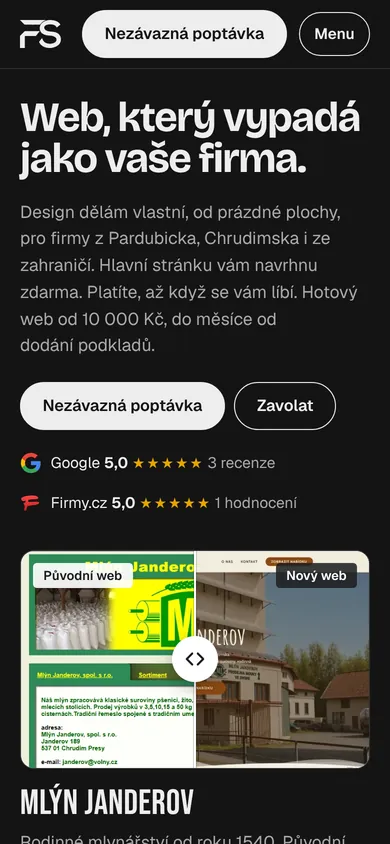
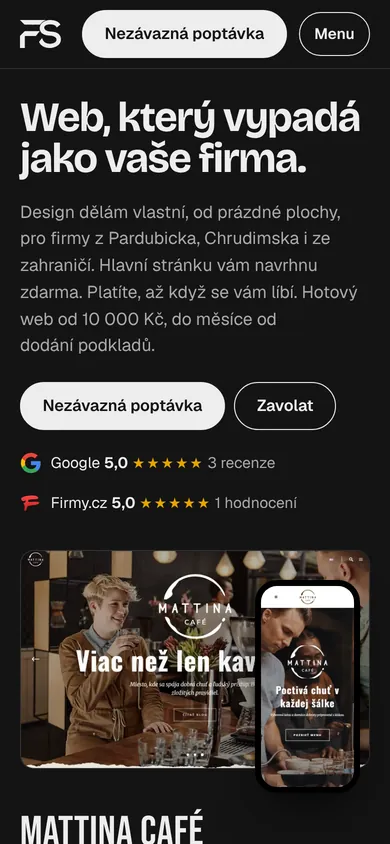
Návrh D: pod nadpisem Mattina, porovnání před a po u Janderova
Porovnání starého a nového webu už není první věc na stránce,
přesunulo se do kapitoly Mlýna Janderov. Pod nadpisem je Mattina
Café přes celou šířku. Rozcestník a zápis v CLAUDE.md doplněné.

Claude-Session: https://claude.ai/code/session_013UDDj57N8RvTJeZ3AHmKVb

Changed region(s): [[0.0308, 0.6469, 0.9538, 1.0]]

diff --git a/navrhy/d/index.html b/navrhy/d/index.html
@@ -178,78 +178,94 @@
       }
     }
 
-    .hero .ba {
+    /* Pod nadpisem rovnou práce: Mattina Café přes celou šířku.
+       Na desktopu výřez 2 : 1 od horní hrany, ať je vidět nad ohybem. */
+    .show {
       margin: clamp(1.75rem, 4vw, 3.25rem) 0 0;
     }
 
-    .hero .ba-frame {
+    .show-media {
+      position: relative;
+      padding-bottom: 7%;
+    }
+
+    .show-media > a {
+      display: block;
+    }
+
+    .show-shot {
+      width: 100%;
+      aspect-ratio: 16 / 10;
+      object-fit: cover;
+      object-position: top center;
       border-radius: 14px;
       border: 1px solid var(--line);
     }
 
-    @media (min-width: 1024px) {
-      .hero .ba-frame {
-        aspect-ratio: 2 / 1;
-      }
+    .show-phone {
+      position: absolute;
+      right: 3%;
+      bottom: 0;
+      width: 30%;
+      max-width: 230px;
+      border-radius: 22px;
+      border: 6px solid #000;
+      background: #000;
+      box-shadow: 0 24px 50px -16px rgba(0, 0, 0, 0.85);
     }
 
-    .ba-cap {
+    .show-body {
       display: grid;
-      gap: 0.45rem;
-      margin-top: 1.1rem;
+      gap: 0;
+      margin-top: 1.25rem;
     }
 
-    .ba-cap-name {
+    .show-name {
       font-family: var(--poster);
-      font-size: 2.2rem;
-      line-height: 1;
+      font-weight: 400;
+      font-size: clamp(2.6rem, 5vw, 4rem);
+      line-height: 0.95;
       letter-spacing: 0.01em;
     }
 
-    .ba-cap-text {
-      color: var(--muted);
-      max-width: 58ch;
-    }
-
-    .ba-hint {
-      color: var(--faint);
-      font-size: 0.9rem;
-    }
-
-    .ba-quote {
-      margin: 1rem 0 0;
-      padding-left: 1.1rem;
-      border-left: 2px solid var(--ink);
-    }
-
-    .ba-quote blockquote {
-      margin: 0;
-      font-size: 1.05rem;
-      line-height: 1.55;
-    }
-
-    .ba-quote-who {
-      margin-top: 0.6rem;
-      color: var(--muted);
-      font-size: 0.95rem;
-    }
-
     @media (min-width: 1024px) {
-      .ba-cap {
+      .show-shot {
+        aspect-ratio: 2 / 1;
+      }
+
+      .show-phone {
+        width: 20%;
+      }
+
+      .show-body {
         grid-template-columns: minmax(0, 1fr) minmax(0, 1fr);
         column-gap: 4rem;
         align-items: start;
       }
 
-      .ba-cap > :not(.ba-quote) {
-        grid-column: 1;
+      .show-body .chapter-quote {
+        margin-top: 0.5rem;
       }
+    }
 
-      .ba-quote {
-        grid-column: 2;
-        grid-row: 1 / span 4;
-        margin-top: 0.4rem;
-      }
+    /* Porovnání před a po v kapitole Mlýna Janderov */
+    .chapter .ba {
+      margin: 0;
+    }
+
+    .chapter .ba-frame {
+      border-radius: 10px;
+      border: 1px solid var(--line);
+    }
+
+    .chapter-media--ba {
+      padding-bottom: 0;
+    }
+
+    .ba-hint {
+      margin-top: 0.6rem;
+      color: var(--faint);
+      font-size: 0.9rem;
     }
 
     /* ---------- Projekty ---------- */
@@ -936,48 +952,30 @@
           </div>
         </div>
 
-        <figure class="ba" data-ba style="--pos: 50%">
-        <div class="ba-frame">
-          <img class="ba-img ba-before" src="/portfolio-test/assets/janderov-stary-web.webp" width="860" height="720" alt="Původní web Mlýna Janderov se zeleno žlutou hlavičkou" />
-          <img class="ba-img ba-after" src="/portfolio-test/assets/cs-janderov-hero.webp" srcset="/portfolio-test/assets/cs-janderov-hero-720.webp 720w, /portfolio-test/assets/cs-janderov-hero.webp 1440w" sizes="(max-width: 1023px) 92vw, 1232px" width="1440" height="900" alt="Nový web Mlýna Janderov s fotkou mlýna" fetchpriority="high" />
-          <span class="ba-tag ba-tag-before" aria-hidden="true">Původní web</span>
-          <span class="ba-tag ba-tag-after" aria-hidden="true">Nový web</span>
-          <span class="ba-handle" aria-hidden="true"><span class="ba-knob"><svg width="22" height="22" viewBox="0 0 24 24" fill="none" stroke="currentColor" stroke-width="2.2" stroke-linecap="round" stroke-linejoin="round" aria-hidden="true"><path d="M9 6l-6 6 6 6M15 6l6 6-6 6"/></svg></span></span>
-          <input class="ba-range" type="range" min="0" max="100" value="50" aria-label="Porovnání původního a nového webu Mlýna Janderov" />
-        </div>
-          <figcaption class="ba-cap">
-            <span class="ba-cap-name">Mlýn Janderov</span>
-            <p class="ba-cap-text">Rodinné mlynářství od roku 1540. Původní web bez přístupů jsem převzal i&nbsp;s&nbsp;doménou a&nbsp;hostingem. Nový byl venku 6&nbsp;dní od zadání.</p>
-            <p class="case-links"><a href="/portfolio-test/projekty/mlyn-janderov">Případová studie</a><a href="https://mlyn-janderov.cz/" target="_blank" rel="noopener noreferrer">mlyn-janderov.cz</a></p>
-            <p class="ba-hint">Tažením porovnáte původní a nový web.</p>
-            <div class="ba-quote">
-              <blockquote><p>Jsme maximálně spokojení. Pomáhal nám s tvorbou webových stránek a i když to s námi nebylo úplně jednoduché, vše se nakonec podařilo. Výsledek přesně odpovídá naší představě. Budeme i nadále v kontaktu. Doporučujeme.</p></blockquote>
-              <p class="ba-quote-who">Ing. Petr Schaffer, Mlýn Janderov</p>
+        <article class="show" id="mattina">
+          <div class="show-media">
+            <a href="/portfolio-test/projekty/mattina-cafe" tabindex="-1" aria-hidden="true"><img class="show-shot" src="/portfolio-test/assets/cs-mattina-hero.webp" srcset="/portfolio-test/assets/cs-mattina-hero-400.webp 400w, /portfolio-test/assets/cs-mattina-hero-720.webp 720w, /portfolio-test/assets/cs-mattina-hero.webp 1440w" sizes="(max-width: 1023px) 92vw, 1232px" width="1440" height="900" alt="Náhled webu Mattina Café" fetchpriority="high" /></a>
+            <img class="show-phone" src="/portfolio-test/assets/navrhy/m-mattina.webp" width="390" height="844" alt="" />
+          </div>
+          <div class="show-body">
+            <div>
+              <h2 class="show-name">Mattina Café</h2>
+              <p class="chapter-text">Web pro kavárnu, která ještě neexistovala. Dvojjazyčný, s obsahem psaným za pochodu.</p>
+              <p class="chapter-stat">Hotovo měsíc před otevřením</p>
+              <p class="case-links"><a href="/portfolio-test/projekty/mattina-cafe">Případová studie</a><a href="https://mattina.sk/" target="_blank" rel="noopener noreferrer">mattina.sk</a></p>
             </div>
-          </figcaption>
-        </figure>
+            <figure class="chapter-quote">
+              <blockquote><p>So spoluprácou som veľmi spokojná, všetko bolo urobené podľa našich predstáv, dokonca aj texty prvých blogov. Ďakujeme.</p></blockquote>
+              <figcaption>Ivana Lenčéšová, Mattina Café</figcaption>
+            </figure>
+          </div>
+        </article>
       </div>
     </section>
 
     <!-- ========== PROJEKTY ========== -->
     <div class="chapters" id="projekty">
-      <section class="chapter" id="mattina">
-        <div class="wrap chapter-grid">
-          <h2>Mattina Café</h2>
-          <div class="chapter-media">
-            <a href="/portfolio-test/projekty/mattina-cafe" tabindex="-1" aria-hidden="true"><img class="chapter-shot" src="/portfolio-test/assets/cs-mattina-hero.webp" srcset="/portfolio-test/assets/cs-mattina-hero-400.webp 400w, /portfolio-test/assets/cs-mattina-hero-720.webp 720w, /portfolio-test/assets/cs-mattina-hero.webp 1440w" sizes="(max-width: 1023px) 92vw, 700px" width="1440" height="900" alt="Náhled webu Mattina Café" loading="lazy" /></a>
-            <img class="chapter-phone" src="/portfolio-test/assets/navrhy/m-mattina.webp" width="390" height="844" alt="" loading="lazy" />
-          </div>
-          <p class="chapter-text">Web pro kavárnu, která ještě neexistovala. Dvojjazyčný, s obsahem psaným za pochodu.</p>
-          <p class="chapter-stat">Hotovo měsíc před otevřením</p>
-          <figure class="chapter-quote">
-            <blockquote><p>So spoluprácou som veľmi spokojná, všetko bolo urobené podľa našich predstáv, dokonca aj texty prvých blogov. Ďakujeme.</p></blockquote>
-            <figcaption>Ivana Lenčéšová, Mattina Café</figcaption>
-          </figure>
-          <p class="case-links"><a href="/portfolio-test/projekty/mattina-cafe">Případová studie</a><a href="https://mattina.sk/" target="_blank" rel="noopener noreferrer">mattina.sk</a></p>
-        </div>
-      </section>
-      <section class="chapter chapter--flip" id="svatba">
+      <section class="chapter" id="svatba">
         <div class="wrap chapter-grid">
           <h2>Svatební web</h2>
           <div class="chapter-media">
@@ -991,6 +989,31 @@
             <figcaption>Lucia, za snoubence</figcaption>
           </figure>
           <p class="case-links"><a href="/portfolio-test/projekty/svatebni-web">Případová studie</a></p>
+        </div>
+      </section>
+      <section class="chapter chapter--flip" id="janderov">
+        <div class="wrap chapter-grid">
+          <h2>Mlýn Janderov</h2>
+          <div class="chapter-media chapter-media--ba">
+            <figure class="ba" data-ba style="--pos: 50%">
+        <div class="ba-frame">
+          <img class="ba-img ba-before" src="/portfolio-test/assets/janderov-stary-web.webp" width="860" height="720" alt="Původní web Mlýna Janderov se zeleno žlutou hlavičkou" loading="lazy" />
+          <img class="ba-img ba-after" src="/portfolio-test/assets/cs-janderov-hero.webp" srcset="/portfolio-test/assets/cs-janderov-hero-720.webp 720w, /portfolio-test/assets/cs-janderov-hero.webp 1440w" sizes="(max-width: 1023px) 92vw, 700px" width="1440" height="900" alt="Nový web Mlýna Janderov s fotkou mlýna" loading="lazy" />
+          <span class="ba-tag ba-tag-before" aria-hidden="true">Původní web</span>
+          <span class="ba-tag ba-tag-after" aria-hidden="true">Nový web</span>
+          <span class="ba-handle" aria-hidden="true"><span class="ba-knob"><svg width="22" height="22" viewBox="0 0 24 24" fill="none" stroke="currentColor" stroke-width="2.2" stroke-linecap="round" stroke-linejoin="round" aria-hidden="true"><path d="M9 6l-6 6 6 6M15 6l6 6-6 6"/></svg></span></span>
+          <input class="ba-range" type="range" min="0" max="100" value="50" aria-label="Porovnání původního a nového webu Mlýna Janderov" />
+        </div>
+              <figcaption class="ba-hint">Tažením porovnáte původní a nový web.</figcaption>
+            </figure>
+          </div>
+          <p class="chapter-text">Klient nemusel řešit vůbec nic technického. Starý web bez přístupů jsem převzal celý, i s doménou a hostingem.</p>
+          <p class="chapter-stat">6 dní od zadání ke spuštění</p>
+          <figure class="chapter-quote">
+            <blockquote><p>Jsme maximálně spokojení. Pomáhal nám s tvorbou webových stránek a i když to s námi nebylo úplně jednoduché, vše se nakonec podařilo. Výsledek přesně odpovídá naší představě. Budeme i nadále v kontaktu. Doporučujeme.</p></blockquote>
+            <figcaption>Ing. Petr Schaffer, Mlýn Janderov</figcaption>
+          </figure>
+          <p class="case-links"><a href="/portfolio-test/projekty/mlyn-janderov">Případová studie</a><a href="https://mlyn-janderov.cz/" target="_blank" rel="noopener noreferrer">mlyn-janderov.cz</a></p>
         </div>
       </section>
       <div class="duo">

diff --git a/navrhy/index.html b/navrhy/index.html
@@ -226,7 +226,7 @@
             <img src="/portfolio-test/assets/navrhy/nahled-d.webp" width="390" height="844" alt="" />
             <span>
               <h2>D. Černobílá</h2>
-              <p>Barvy a písma současného webu, žádná další barva. Stavba podle B, velké projekty s citacemi, a nahoře porovnání před a po z A. Výřez fotky je v sekci O mně.</p>
+              <p>Barvy a písma současného webu, žádná další barva. Hned pod nadpisem Mattina Café přes celou šířku, pod ní velké projekty s citacemi. Porovnání před a po je u Mlýna Janderov, výřez fotky v sekci O mně.</p>
               <span class="go">Otevřít variantu</span>
             </span>
           </a>

diff --git a/CLAUDE.md b/CLAUDE.md
@@ -68,7 +68,7 @@ Tyhle věci jsou probrané a rozhodnuté. Znovu je nenavrhuj, pokud o to Pavel s
 - **Do budoucna: reference s fotkou klienta.** Pavel chce zkusit velké karty, kde vlevo stojí fotka klienta nebo jeho provozovny a vpravo přes ni poloprůhledný panel se jménem, rolí a citací. Inspirace je dushestudio.cz. Je to konkurenční studio, takže se bere princip, ne jejich podoba jedna k jedné. Brání tomu dvě věci: chybí fotky klientů a referencí je málo (s pár velkými kartami by se pás opakoval). Postup: při připomínání recenzí poprosit klienty i o jednu fotku a souhlas s použitím. Kdo fotku nepošle, může mít na kartě ostrý náhled svého webu. „Nové fotky nebudou“ platí pro Pavla, ne pro klienty.
 - **OG obrázky předělat napříč webem.** Dnes má devět českých stránek stejný `assets/og-image.jpg` (fotka Pavla), studie mají náhled svého webu `cs-*-hero.webp` v poměru 16 : 10. Pavel je chce upravit všude, ne jen na /projekty. Na /projekty se nabízí koláž náhledů klientských webů. U studií zvážit JPG nebo PNG v 1200 × 630, WebP některé sítě v náhledu odkazu nezobrazí. S obrázkem se mění i `og:image:alt` (bez `·` a pomlčky) a rozměry v `og:image:width` a `og:image:height`. Zapsáno 16. 10. 2026.
 - Až bude čeština hotová: dorovnat angličtinu podle seznamu výš.
-- **Návrhy nové hlavní stránky (19. 10. 2026).** Pavel chtěl vidět, jak by homepage mohla vypadat úplně jinak. Ve složce `/navrhy/` jsou čtyři varianty jako podklad pro výběr, rozcestník je `/navrhy/`. A „Před a po“: v heru porovnání původního a nového webu Mlýna Janderov, posouvá se tažením. B „Barvy klientů“: každý projekt má kapitolu v barvách svého webu, nadpisy v Newsreaderu. C „Modrá“: hero jako plakát v modré `#2F4BFF` ze sítí, výřez fotky přes multiply, největší nadpis je o návrhu hlavní stránky zdarma. D „Černobílá“ (přidaná na Pavlovo přání, chtěl vidět i variantu v černobílé): barvy a písma současného webu (`#141414`, `#EDEDED`, Bebas, Bricolage, Geist) bez akcentové barvy, stavba podle B s porovnáním před a po z A, výřez fotky v sekci O mně. Fakta, ceny, citace, texty karet projektů, formulář, kroky „Co bude dál“ a FAQ jsou převzaté beze změny. Varianty mají vlastní CSS a JS (`navrhy/navrhy.css`, `navrhy/navrhy.js`), formulář, lištu a mezery obstarává `js/main.js`. Nové soubory leží v `assets/navrhy/` (písma Newsreader a plná Bricolage s osou šířky, výřezy telefonů, loga v barvě, náhledy). Na živý web se nic z toho nepřenáší, dokud Pavel nevybere. Vybraná varianta se pak přenese do `index.html` i s hlavičkou současné homepage (canonical, hreflang, Open Graph, JSON-LD, Google Analytics a cookie lišta v návrzích schválně chybí) a rozhodnutí v sekci výš se podle ní přepíšou, hlavně hero a pořadí sekcí.
+- **Návrhy nové hlavní stránky (19. 10. 2026).** Pavel chtěl vidět, jak by homepage mohla vypadat úplně jinak. Ve složce `/navrhy/` jsou čtyři varianty jako podklad pro výběr, rozcestník je `/navrhy/`. A „Před a po“: v heru porovnání původního a nového webu Mlýna Janderov, posouvá se tažením. B „Barvy klientů“: každý projekt má kapitolu v barvách svého webu, nadpisy v Newsreaderu. C „Modrá“: hero jako plakát v modré `#2F4BFF` ze sítí, výřez fotky přes multiply, největší nadpis je o návrhu hlavní stránky zdarma. D „Černobílá“ (přidaná na Pavlovo přání, chtěl vidět i variantu v černobílé): barvy a písma současného webu (`#141414`, `#EDEDED`, Bebas, Bricolage, Geist) bez akcentové barvy, stavba podle B, výřez fotky v sekci O mně. Od 21. 10. 2026 je pod nadpisem Mattina Café přes celou šířku a porovnání před a po se přesunulo z hera do kapitoly Mlýna Janderov. Pavel si porovnáním nahoře nebyl jistý a starý web klienta nemá být to první, co návštěvník uvidí. D je doporučená varianta, protože jako jediná sedí s podstránkami, které jsou tmavé. Při přenosu do `index.html` zůstává navigace a patička ze současného webu (`style.css`), ne hlavička z návrhu. Fakta, ceny, citace, texty karet projektů, formulář, kroky „Co bude dál“ a FAQ jsou převzaté beze změny. Varianty mají vlastní CSS a JS (`navrhy/navrhy.css`, `navrhy/navrhy.js`), formulář, lištu a mezery obstarává `js/main.js`. Nové soubory leží v `assets/navrhy/` (písma Newsreader a plná Bricolage s osou šířky, výřezy telefonů, loga v barvě, náhledy). Na živý web se nic z toho nepřenáší, dokud Pavel nevybere. Vybraná varianta se pak přenese do `index.html` i s hlavičkou současné homepage (canonical, hreflang, Open Graph, JSON-LD, Google Analytics a cookie lišta v návrzích schválně chybí) a rozhodnutí v sekci výš se podle ní přepíšou, hlavně hero a pořadí sekcí.
 
 ---
 
